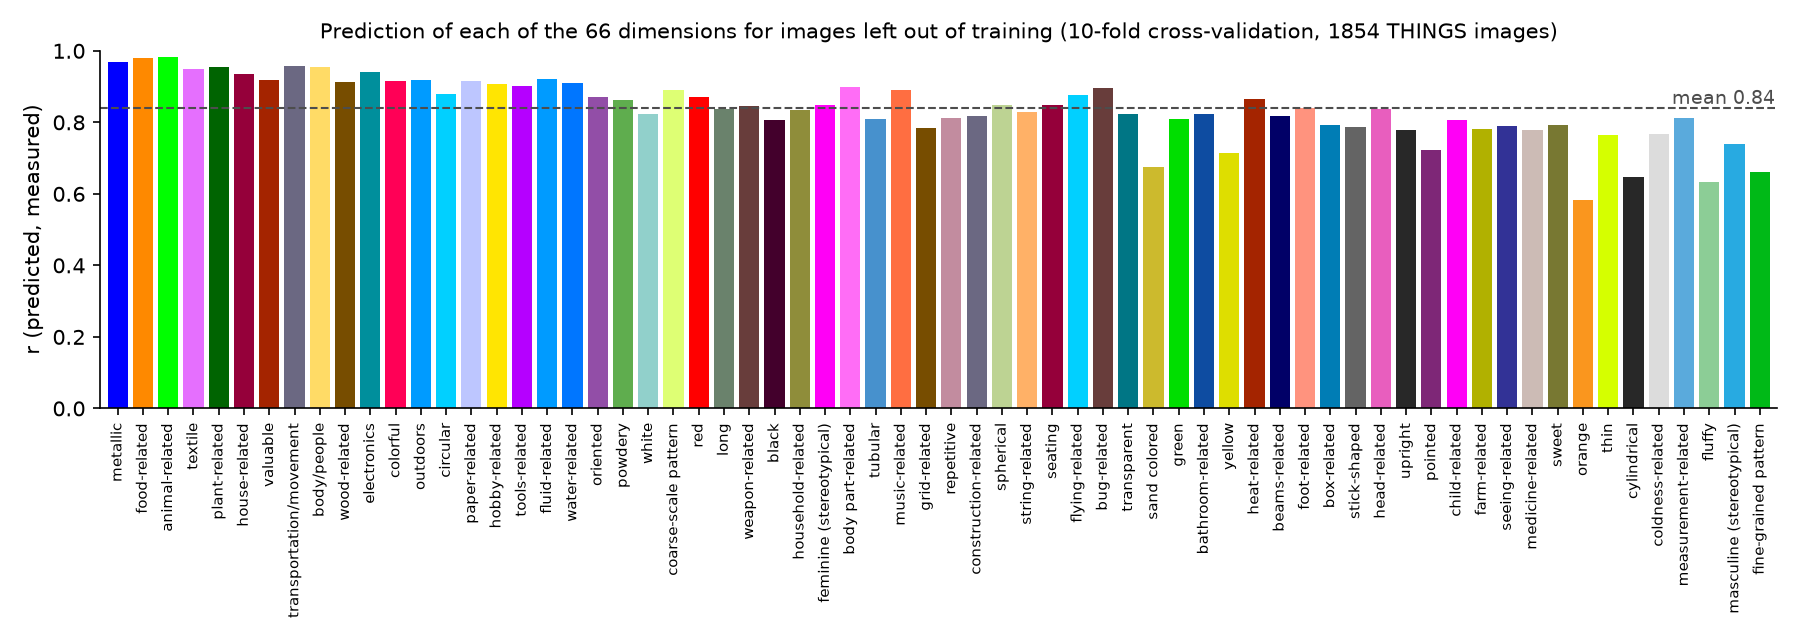
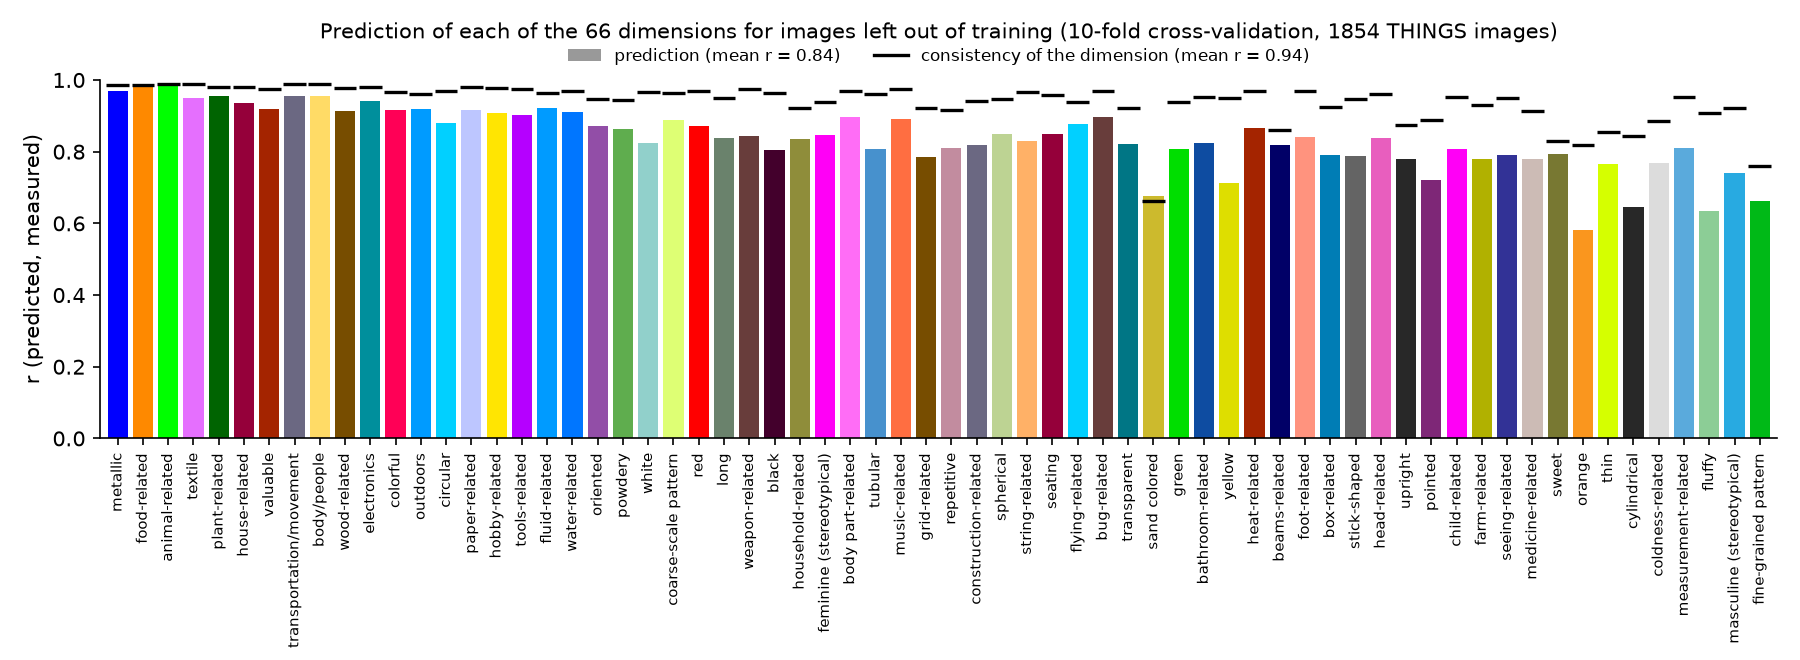
README figures: consistency of the dimensions, new example photos
- the per-dimension figure shows the consistency of each dimension
  (Extended Data Fig. 1 of Hebart et al., 2023; mean r = 0.94) instead of
  the mean prediction; training/data/consistency_66d.txt
- rose plots of a hot-air balloon and a phone booth (CC0 photos of
  THINGSplus, docs/images/examples) instead of the burrito and the apron;
  the barbed wire stays

diff --git a/docs/images/make_readme_figures.py b/docs/images/make_readme_figures.py
@@ -5,7 +5,9 @@ dimensions and the similarity of new images.
     dimension_accuracy.png: r between predicted and measured values for
         each dimension, 10-fold cross-validation on the 1854 THINGS
         reference images (KFold(10, shuffle=True, random_state=0), the
-        default model refit in each fold as in training/build_models.py)
+        default model refit in each fold as in training/build_models.py),
+        and the consistency of each dimension
+        (training/data/consistency_66d.txt, see consistency below)
     similarity_48nonref.png: human similarity of the 48nonref images (48 new
         images of THINGS objects, odd-one-out judgments of the DimPred
         paper) next to the similarity predicted by the default model (with
@@ -13,15 +15,22 @@ dimensions and the similarity of new images.
         similarity
     rose_plots.png: the measured dimensions of three objects (the SPoSE
         embedding of the object) and the dimensions predicted for a CC0
-        photo of the same object (tests/fixtures/images), as rose plots
+        photo of the same object (THINGSplus, docs/images/examples and
+        tests/fixtures/images), as rose plots
 
 The colors of the dimensions are those of Hebart et al. (2023)
-(training/data/colors_66d.txt). The 48nonref and CC0 features come from
+(training/data/colors_66d.txt). The 48nonref features come from
 tests/fixtures/reference_data.mat. The 1854 reference images are not part
 of the repository; pass the folder with them with --things, either
 object_images_behavior of THINGS (aardvark.jpg, abacus.jpg, ...) or
 object_images (aardvark/aardvark_01b.jpg, ...). Their features are saved
 with --features and read from there the next time.
+
+The consistency of the dimensions is read from
+training/data/consistency_66d.txt. With --seed-models and --sortind it is
+computed again from the 72 SPoSE models that Hebart et al. (2023) fitted
+with different random seeds (folders seed00 ... seed71, the model of seed63
+left out as in their code) and saved there.
 
 Example:
     python docs/images/make_readme_figures.py --things /data/THINGS/object_images_behavior --features alignet_1854.npy
@@ -48,7 +57,10 @@ from build_models import CLOSE_PAIRS, KERNEL, fit_kernel, fit_model
 
 DATA = os.path.join(REPO, "training", "data")
 MODEL = "alignet_siglip2b_66d_kernel"
-CC0 = {"apron": "apron", "barbed_wire": "barbed wire", "burrito": "burrito"}
+# the three photos of the rose plots (CC0 photos of THINGSplus) and their objects
+EXAMPLES = [("hot-air balloon", "hot-air_balloon", os.path.join(HERE, "examples", "hot-air_balloon.jpg")),
+            ("phone booth", "phone_booth", os.path.join(HERE, "examples", "phone_booth.jpg")),
+            ("barbed wire", "barbed_wire", os.path.join(REPO, "tests", "fixtures", "images", "barbed_wire.jpg"))]
 
 
 def read_lines(fname):
@@ -88,6 +100,26 @@ def cross_validated(features, embedding):
     return predicted
 
 
+def consistency(embedding, models_dir, sortind_file):
+    """Consistency of each dimension as in Extended Data Fig. 1 of Hebart et al.
+    (2023): for each of 71 models fitted with other random seeds, the largest
+    correlation of the dimension with any dimension of that model (dimensions
+    with a value above 0.1), averaged over the models after Fisher z."""
+    import glob
+    sortind = scipy.io.loadmat(sortind_file, squeeze_me=True)["sortind"].astype(int) - 1
+    z = (embedding - embedding.mean(0)) / embedding.std(0)
+    best = []
+    for seed in range(72):
+        if seed == 63:  # left out in the paper
+            continue
+        fname = sorted(glob.glob(os.path.join(models_dir, f"seed{seed:02d}", "0.00385", "*.txt")))[-1]
+        other = np.loadtxt(fname).T
+        other = other[:, (other > 0.1).any(axis=0)][sortind]
+        other = (other - other.mean(0)) / other.std(0)
+        best.append((z.T @ other / len(z)).max(axis=1))
+    return np.tanh(np.arctanh(np.clip(np.array(best), -0.999999, 0.999999)).mean(axis=0))
+
+
 def short_label(label):
     """First part of a label, e.g. "food-related", "transportation/movement" for
     "transportation-/movement-related"."""
@@ -97,20 +129,24 @@ def short_label(label):
     return parts[0]
 
 
-def plot_accuracy(r, colors, labels, fname):
+def plot_accuracy(r, consistent, colors, labels, fname):
     import matplotlib.pyplot as plt
-    fig, ax = plt.subplots(figsize=(12, 4.2))
+    fig, ax = plt.subplots(figsize=(12, 4.4))
     x = np.arange(1, len(r) + 1)
+    from matplotlib.lines import Line2D
+    from matplotlib.patches import Patch
     ax.bar(x, r, color=colors, edgecolor="none", width=0.8)
-    ax.axhline(r.mean(), color="0.3", linestyle="--", linewidth=1)
-    ax.text(len(r) + 0.6, r.mean(), f"mean {r.mean():.2f}", va="bottom", ha="right", fontsize=9, color="0.3")
+    ax.hlines(consistent, x - 0.45, x + 0.45, color="black", linewidth=1.6)
+    ax.legend([Patch(facecolor="0.6"), Line2D([], [], color="black", linewidth=1.6)],
+              [f"prediction (mean r = {r.mean():.2f})", f"consistency of the dimension (mean r = {consistent.mean():.2f})"],
+              loc="lower center", bbox_to_anchor=(0.5, 1.0), ncol=2, fontsize=8, frameon=False)
     ax.set_xticks(x)
     ax.set_xticklabels([short_label(lab) for lab in labels], rotation=90, fontsize=7)
     ax.set_xlim(0.3, len(r) + 0.7)
     ax.set_ylim(0, 1)
     ax.set_ylabel("r (predicted, measured)")
     ax.set_title("Prediction of each of the 66 dimensions for images left out of training "
-                 "(10-fold cross-validation, 1854 THINGS images)", fontsize=10)
+                 "(10-fold cross-validation, 1854 THINGS images)", fontsize=10, pad=20)
     ax.spines[["top", "right"]].set_visible(False)
     fig.tight_layout()
     fig.savefig(fname, dpi=150)
@@ -148,16 +184,15 @@ def rose(ax, values, colors, vmax):
     ax.spines["polar"].set_color("0.85")
 
 
-def plot_roses(images, measured, predicted, colors, labels, fname):
+def plot_roses(names, images, measured, predicted, colors, labels, fname):
     import matplotlib.pyplot as plt
     from PIL import Image
     fig, axes = plt.subplots(3, 3, figsize=(8.4, 8.6), gridspec_kw=dict(wspace=0.05, hspace=0.25))
-    for i, (image, m, p) in enumerate(zip(images, measured, predicted)):
+    for i, (name, image, m, p) in enumerate(zip(names, images, measured, predicted)):
         vmax = max(m.max(), p.max()) * 1.02
         ax = axes[i, 0]
         ax.imshow(Image.open(image).convert("RGB"))
         ax.axis("off")
-        name = CC0[os.path.splitext(os.path.basename(image))[0]]
         top = np.argsort(m)[::-1][:3]
         ax.set_title(name, fontsize=11)
         ax.text(0.5, -0.04, "largest: " + ", ".join(short_label(labels[k]) for k in top), transform=ax.transAxes,
@@ -177,6 +212,8 @@ def main():
     parser.add_argument("--things", help="folder with the 1854 reference images (object_images_behavior of THINGS)")
     parser.add_argument("--features", help="file for the features of the 1854 images (.npy)")
     parser.add_argument("--out", default=HERE)
+    parser.add_argument("--seed-models", help="folder with the SPoSE models seed00 ... seed71 (to compute the consistency again)")
+    parser.add_argument("--sortind", help="sortind.mat of these models (the order of the objects)")
     args = parser.parse_args()
 
     embedding = np.loadtxt(os.path.join(DATA, "spose_embedding_66d.txt"))
@@ -188,8 +225,15 @@ def main():
     features = reference_features(args.things, args.features)
     oof = cross_validated(features, embedding)
     r = np.array([np.corrcoef(oof[:, d], embedding[:, d])[0, 1] for d in range(embedding.shape[1])])
-    print(f"per dimension: mean r {r.mean():.3f} (min {r.min():.3f}, max {r.max():.3f})")
-    plot_accuracy(r, colors, labels, os.path.join(args.out, "dimension_accuracy.png"))
+    consistency_file = os.path.join(DATA, "consistency_66d.txt")
+    if args.seed_models:
+        np.savetxt(consistency_file, consistency(embedding, args.seed_models, args.sortind), fmt="%.6f")
+    consistent = np.loadtxt(consistency_file)
+    above = np.flatnonzero(r > consistent)
+    print(f"per dimension: mean r {r.mean():.3f} (min {r.min():.3f}, max {r.max():.3f}); consistency mean "
+          f"{consistent.mean():.3f}; prediction above the consistency for {len(above)} dimensions: "
+          + ", ".join(f"{short_label(labels[d])} ({r[d]:.3f} vs {consistent[d]:.3f})" for d in above))
+    plot_accuracy(r, consistent, colors, labels, os.path.join(args.out, "dimension_accuracy.png"))
 
     # 2. similarity of the 48nonref images
     fixtures = scipy.io.loadmat(os.path.join(REPO, "tests", "fixtures", "reference_data.mat"), squeeze_me=True)
@@ -204,13 +248,13 @@ def main():
 
     # 3. rose plots of three CC0 photos
     names = read_lines(os.path.join(DATA, "reference_image_names.txt"))
-    images = [os.path.join(REPO, "tests", "fixtures", "images", f) for f in fixtures["cc0_files"]]
-    keys = [os.path.splitext(os.path.basename(f))[0] for f in images]
-    measured = [embedding[names.index(f"{k}_01b.jpg")] for k in keys]
-    predicted_cc0 = dimpred.predict(fixtures["cc0_features_alignet"], model)
-    plot_roses(images, measured, predicted_cc0, colors, labels, os.path.join(args.out, "rose_plots.png"))
-    for k, m, p in zip(keys, measured, predicted_cc0):
-        print(f"{k}: r measured vs predicted {np.corrcoef(m, p)[0, 1]:.3f}")
+    images = [f for _, _, f in EXAMPLES]
+    measured = [embedding[names.index(f"{key}_01b.jpg")] for _, key, _ in EXAMPLES]
+    predicted_examples = dimpred.predict(dimpred.extract_features(images, MODEL), model)
+    plot_roses([n for n, _, _ in EXAMPLES], images, measured, predicted_examples, colors, labels,
+               os.path.join(args.out, "rose_plots.png"))
+    for (name, _, _), m, p in zip(EXAMPLES, measured, predicted_examples):
+        print(f"{name}: r measured vs predicted {np.corrcoef(m, p)[0, 1]:.3f}")
 
 
 if __name__ == "__main__":

diff --git a/README.md b/README.md
@@ -40,8 +40,10 @@ With the default model, `alignet_siglip2b_66d_kernel`:
 
 Each dimension for images that were left out of training: r between the
 predicted and the measured values, 10-fold cross-validation on the 1854
-THINGS images (mean r = 0.84). Names and colors of the dimensions as in
-Hebart et al. (2023).
+THINGS images (mean r = 0.84). The black marks show how consistent each
+dimension is: its correlation with the best matching dimension of 71 models
+that Hebart et al. (2023) fitted with other random seeds (mean r = 0.94).
+Names and colors of the dimensions as in Hebart et al. (2023).
 
 ![Measured and predicted similarity of 48 new images of THINGS objects](docs/images/similarity_48nonref.png)
 
@@ -52,9 +54,9 @@ images (r = 0.89).
 ![Measured and predicted dimensions of three objects](docs/images/rose_plots.png)
 
 The measured dimensions of three objects and the dimensions predicted for a
-photo of each object that was not used for training (the CC0 photos in
-`tests/fixtures/images`). The measured values come from the training data
-and describe the object, not this photo, so this is an illustration.
+photo of each object that was not used for training (CC0 photos of
+THINGSplus). The measured values come from the training data and describe
+the object, not this photo, so this is an illustration.
 
 AligNet's teacher was fitted to the THINGS odd-one-out data, so the values on
 THINGS objects are probably somewhat optimistic. Eight other image sets are

diff --git a/training/README.md b/training/README.md
@@ -270,6 +270,10 @@ SigLIP2-B, see [alignet/README.md](alignet/README.md).
 - `labels_49d.txt`, `labels_66d.txt`: the labels of the dimensions
 - `colors_66d.txt`: the colors of the 66 dimensions (RGB, 0 to 1) of
   Hebart et al. (2023), used in the figures of the README
+- `consistency_66d.txt`: the consistency of each of the 66 dimensions, as
+  in Extended Data Fig. 1 of Hebart et al. (2023): the largest correlation
+  with a dimension of each of 71 models fitted with other random seeds,
+  averaged after Fisher z (`docs/images/make_readme_figures.py`)
 - `stuff_embedding_36d.txt`: the 36 material dimensions of the 600 STUFF
   images (Schmidt et al., 2025; `sparse_embed_epoch0150.txt` of OSF 5gr73,
   the dimensions with a largest value of at least 0.1, sorted by their sum,

diff --git a/docs/changes.md b/docs/changes.md
@@ -3,10 +3,12 @@
 ## README figures (after 1.3.0)
 
 - The README shows how well the default model works: r for each of the 66
-  dimensions, measured and predicted similarity of the 48nonref images, and
-  rose plots of three objects (`docs/images/make_readme_figures.py`,
-  colors of the dimensions in `training/data/colors_66d.txt`). The package
-  does not change.
+  dimensions next to the consistency of the dimension, measured and
+  predicted similarity of the 48nonref images, and rose plots of three
+  objects (`docs/images/make_readme_figures.py`; colors and consistency of
+  the dimensions in `training/data/colors_66d.txt` and
+  `training/data/consistency_66d.txt`, the CC0 photos in
+  `docs/images/examples`). The package does not change.
 
 ## 1.3.0
 
